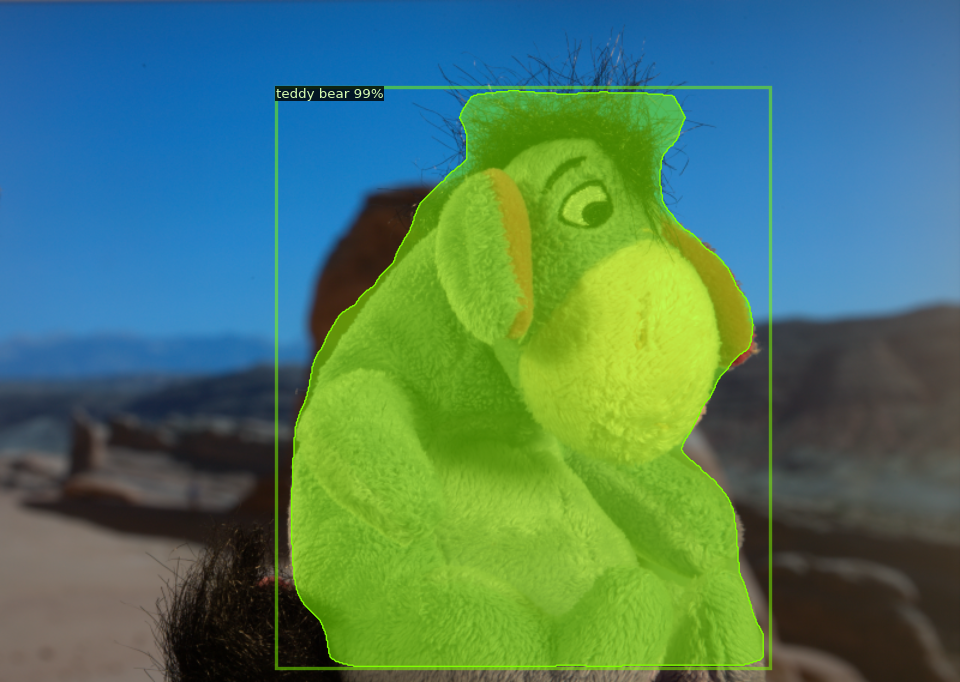
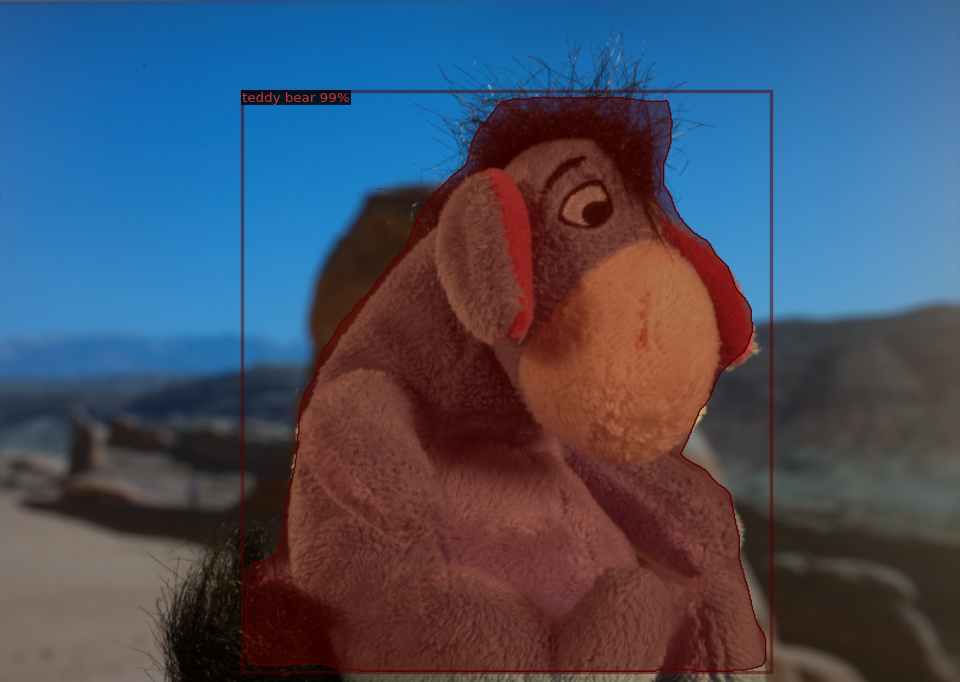
added trimap stage

diff --git a/pipeline/pipe.py b/pipeline/pipe.py
@@ -1,40 +1,57 @@
 # local application libraries
-from pipeline.coarse import CoarseStage
+from pipeline.coarse_stage import CoarseStage
+from pipeline.trimap_stage import TrimapStage
 
 # system libraries
 import os
 
 # external libraries
 import numpy as np
-from PIL import Image
 import cv2
 
 class Pipeline:
     def __init__(self, args):
         self.coarse_stage = CoarseStage(args.coarse_config, args.coarse_thresh)
+       
+        self.trimap_stage = TrimapStage(args.trimap_kernel_size,
+                                        args.dilation, args.erosion)
 
+    
     def process(self, args):
         images, filenames = self.load_images(args.images_dir)
+        
         for img, filename in zip(images, filenames):
             coarse_preds = self.coarse_stage.pred(img)
+            
             instances = self.coarse_stage.get_instances(img, coarse_preds)
             self.save(instances, filename, 'instance_preds', args.instance_preds_dir)
+            
             subj, size = self.coarse_stage.get_subj_mask(coarse_preds)
-            self.save(subj, filename, 'subj_pred', args.subj_masks_dir)
+            self.save(subj.astype(int)*255, filename, 'subj_pred', args.subj_masks_dir)
 
+            trimap = self.trimap_stage.process(subj.astype(float), size)
+            self.save((trimap*255).astype(int), filename, 'trimap', args.trimaps_dir)
+
+   
     def load_images(self, dir):
         images = []
         filenames = []
+        
         for filename in os.listdir(dir):
             img = cv2.imread(os.path.join(dir, filename))
             img = cv2.cvtColor(img, cv2.COLOR_BGR2RGB)
             images.append(img)
             filenames.append(filename)
+        
         return images, filenames   
 
+    
     def save(self, img, file_name, file_type, dir):
         output_file_name = '{0}_{2}{1}'.format(*os.path.splitext(file_name), file_type)
+        
         if len(img.shape) == 2: # Single channel image (e.g. subject masks)
-            cv2.imwrite(os.path.join(dir, output_file_name), img*255)
+            cv2.imwrite(os.path.join(dir, output_file_name), img)
+        
         if len(img.shape) == 3: # RGB image (e.g. instance predictions)
-            cv2.imwrite(os.path.join(dir, output_file_name), cv2.cvtColor(img, cv2.COLOR_RGB2BGR))
+            cv2.imwrite(os.path.join(dir, output_file_name), 
+                                    cv2.cvtColor(img, cv2.COLOR_RGB2BGR))

diff --git a/main.py b/main.py
@@ -5,19 +5,34 @@ import argparse
 def main():
     parser = argparse.ArgumentParser()
     
+    # for image directory specification
     parser.add_argument('--images_dir', default='./examples/input_images', 
                         help='directory of input images to be processed')
     parser.add_argument('--instance_preds_dir', default='./examples/instance_preds', 
                         help='directory to save intermediate coarse instance segementation predictions')
     parser.add_argument('--subj_masks_dir', default='./examples/subj_mask_preds', 
                         help='directory to save intermediate coarse subject mask predictions')
+    parser.add_argument('--trimaps_dir', default='./examples/trimaps', 
+                        help='directory to save intermediate trimaps')
+    
+    # for coarse stage specification
     parser.add_argument('--coarse_config', default='mask_rcnn_X_101_32x8d_FPN_3x.yaml', 
                         help='Detectron2 YAML file with Mask R-CNN configuration')
-    parser.add_argument('--coarse_thresh', default=0.5, 
+    parser.add_argument('--coarse_thresh', default=0.8, 
                         help='Mask R-CNN score threshold for instance recognition')
+
+     # for trimap stage specification
+    parser.add_argument('--trimap_kernel_size', default=7, 
+                        help='Size of kernel used for trimap erosion/dilation')
+    parser.add_argument('--dilation', default=5, 
+                        help='Number of iterations applied for dilation')
+    parser.add_argument('--erosion', default=0, 
+                        help='Number of iterations applied for erosion')
+
     args = parser.parse_args()
 
     pipeline = Pipeline(args)
+
     pipeline.process(args)
 
 if __name__ == '__main__':

diff --git a/pipeline/coarse_stage.py b/pipeline/coarse_stage.py
@@ -15,18 +15,21 @@ class CoarseStage:
         self.cfg.MODEL.WEIGHTS = model_zoo.get_checkpoint_url('COCO-InstanceSegmentation/'+cfg)
         self.cfg.MODEL.ROI_HEADS.SCORE_THRESH_TEST = thresh
 
+
     def pred(self, img):
         predictor = DefaultPredictor(self.cfg)
         return predictor(img)
+
 
     def get_instances(self, img, preds):
         v = Visualizer(img[:, :, ::-1], MetadataCatalog.get(self.cfg.DATASETS.TRAIN[0]), scale=1.2)
         v = v.draw_instance_predictions(preds['instances'].to('cpu'))
         return v.get_image()[:, :, ::-1]
 
+
     def get_subj_mask(self, preds):
         main_instance = self.find_subj(preds['instances']) 
-        mask = main_instance.get('pred_masks').cpu().numpy().squeeze().astype(int)
+        mask = main_instance.get('pred_masks').cpu().numpy().squeeze().astype(float)
         size = main_instance.get('pred_boxes').area().cpu().item()
         return mask, size
     

diff --git a/pipeline/trimap_stage.py b/pipeline/trimap_stage.py
@@ -1,0 +1,26 @@
+# external libraries
+import numpy as np
+import cv2
+
+
+class TrimapStage: 
+    def __init__(self, ksize, dilation, erosion):
+        if not ksize%2: # ksize can't be even
+            raise ValueError('Kernel size must be odd!')
+        self.ksize = ksize
+        self.dilation = dilation
+        self.erosion = erosion  
+
+
+    def process(self, mask, size):
+        base_its = int(size/10000)
+        kernel = cv2.getStructuringElement(cv2.MORPH_CROSS,(self.ksize,self.ksize))                            
+        
+        dilated = cv2.dilate(mask, kernel, iterations=base_its+self.dilation)
+        eroded = cv2.erode(mask, kernel, iterations=base_its+self.erosion)
+        
+        trimap = np.zeros(mask.shape, dtype='float64')
+        trimap.fill(0.5)
+        trimap[eroded==1.0] = 1.0
+        trimap[dilated==0.0] = 0.0
+        return trimap
